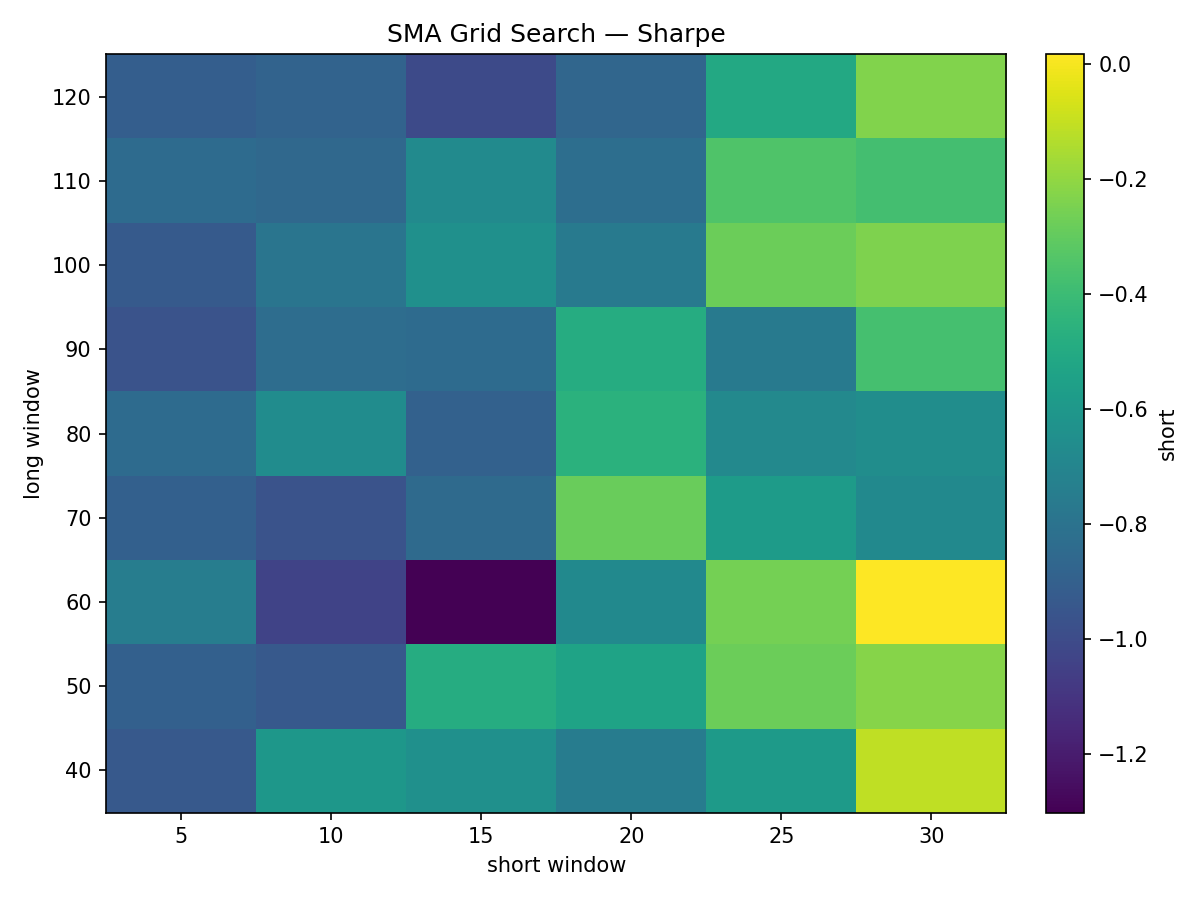
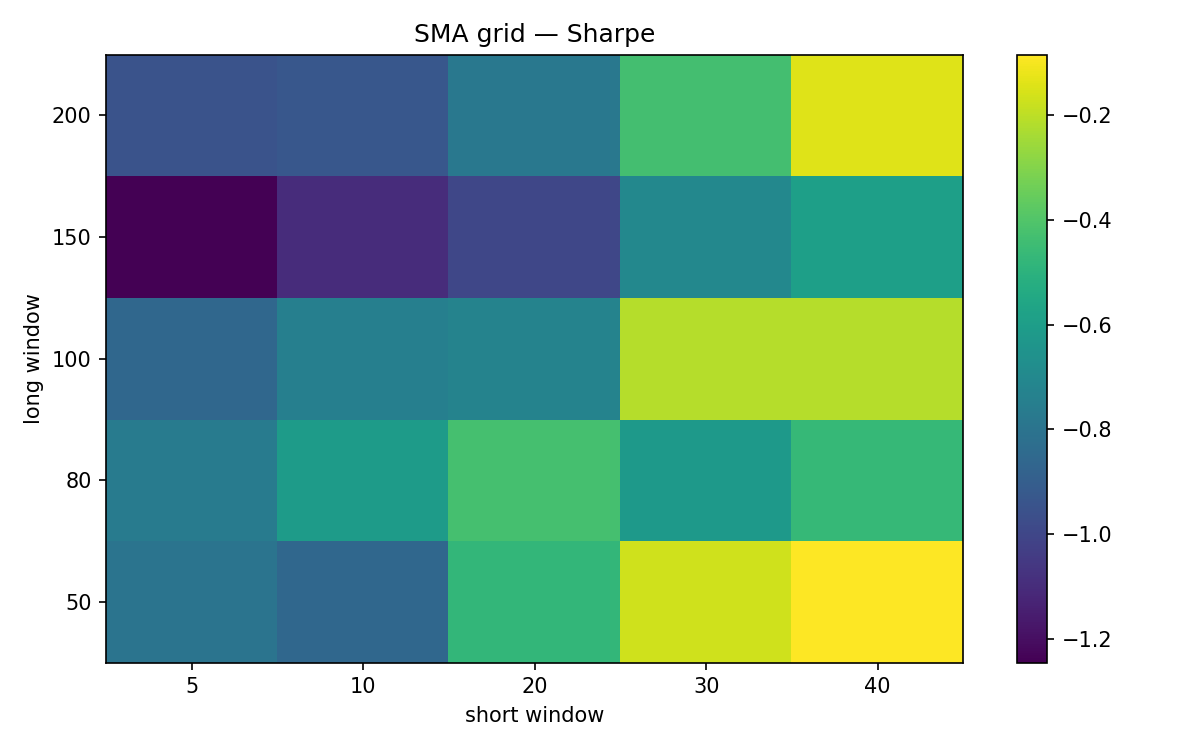
Harmonize backtest API to use cost_bps; fix run_backtest & tune_sma compatibility

diff --git a/scripts/run_backtest.py b/scripts/run_backtest.py
@@ -1,9 +1,11 @@
-import sys
+# scripts/run_backtest.py
+# Run a single SMA-crossover backtest and plot the results.
+
 import os
+import sys
 import matplotlib.pyplot as plt
 
-# === Make package imports work when running this file directly ===
-# (adds the repository root to sys.path)
+# Allow "backtesting" and "utils" imports when running this file directly
 sys.path.append(os.path.dirname(os.path.dirname(__file__)))
 
 from utils.data_loader import load_prices
@@ -11,89 +13,66 @@ from backtesting.ma_crossover import sma_crossover_positions
 from backtesting.engine import run_backtest
 
 
-# ---------- Plotting helpers ----------
 def plot_backtest(df, positions, result):
-    """
-    Two-panel plot:
-      1) Price with buy/sell markers from the SMA crossover signals
-      2) Equity curve with drawdown shading
-    """
+    """Two panels: price+signals and equity curve."""
     fig, (ax1, ax2) = plt.subplots(
         2, 1, figsize=(12, 8), sharex=True, gridspec_kw={"height_ratios": [2, 1]}
-    )
+        )
 
     # 1) Price + signals
     ax1.plot(df.index, df["price"], label="Price", color="black", lw=1.2)
-
-    # Buy when position goes from <= 0 to > 0; sell when it goes from >= 0 to < 0
-    buy_idx = positions[(positions.shift(1) <= 0) & (positions > 0)].index
-    sell_idx = positions[(positions.shift(1) >= 0) & (positions < 0)].index
-    ax1.scatter(buy_idx, df.loc[buy_idx, "price"], color="green", marker="^", s=80, label="Buy")
-    ax1.scatter(sell_idx, df.loc[sell_idx, "price"], color="red", marker="v", s=80, label="Sell")
-
-    ax1.set_title("SMA Crossover — Trading Signals", fontsize=13)
+    buys = positions[(positions.shift(1) <= 0) & (positions > 0)].index
+    sells = positions[(positions.shift(1) >= 0) & (positions < 0)].index
+    ax1.scatter(buys,  df.loc[buys,  "price"], color="green", marker="^", s=70, label="Buy")
+    ax1.scatter(sells, df.loc[sells, "price"], color="red",   marker="v", s=70, label="Sell")
+    ax1.set_title("SMA crossover — trading signals")
     ax1.set_ylabel("Price")
-    ax1.legend()
     ax1.grid(alpha=0.3)
+    ax1.legend()
 
-    # 2) Equity curve + drawdown (shade vs running max)
-    equity = result.equity
-    ax2.plot(equity.index, equity, color="tab:blue", lw=1.5, label="Equity Curve")
-    ax2.fill_between(equity.index, equity, equity.cummax(), color="tab:red", alpha=0.12, label="Drawdown")
-    ax2.set_title("Equity Curve", fontsize=13)
-    ax2.set_ylabel("Equity")
-    ax2.legend()
+    # 2) Equity curve (+ drawdown shadow)
+    eq = result.equity
+    ax2.plot(eq.index, eq, lw=1.6, label="Equity")
+    ax2.fill_between(eq.index, eq, eq.cummax(), color="red", alpha=0.12, label="Drawdown")
+    ax2.set_title("Equity curve")
+    ax2.set_ylabel("Capital")
     ax2.grid(alpha=0.3)
+    ax2.legend()
 
     plt.tight_layout()
-
-    # Save figure next to /data
-    save_path = os.path.join(os.path.dirname(os.path.dirname(__file__)), "data", "backtest_plot.png")
-    try:
-        plt.savefig(save_path, dpi=150)
-        print(f"\n📊 Plot saved to: {save_path}\n")
-    except Exception as e:
-        print(f"[WARN] Could not save plot: {e}")
-
+    out_png = os.path.join(os.path.dirname(os.path.dirname(__file__)), "data", "backtest_plot.png")
+    os.makedirs(os.path.dirname(out_png), exist_ok=True)
+    plt.savefig(out_png, dpi=150)
+    print(f"\n[OK] Plot saved to: {out_png}\n")
     plt.show()
 
 
-# ---------- Main script ----------
 def main():
-    # Load prices (utils/data_loader.py will fallback to synthetic if file not found)
-    df = load_prices()  # dataframe with a 'price' column and a datetime-like index
+    # Load prices (utils/data_loader.py will synthesize data if file is missing)
+    df = load_prices()  # DataFrame with 'price' column
 
-    # Build SMA crossover positions (+1 / 0 / -1)
-    positions = sma_crossover_positions(
-        df["price"],
-        short=20,
-        long=100,
-    )
+    # Build SMA crossover positions (+1 / 0 / -1), shifted by 1 bar inside the function
+    positions = sma_crossover_positions(df["price"], short=20, long=100)
 
-    # Run backtest (IMPORTANT: use total_bps to match engine.py)
+    # >>> IMPORTANT: engine.run_backtest uses 'cost_bps' <<<
     result = run_backtest(
-        df,
+        df["price"],
         positions,
-        total_bps=1.0,       # transaction cost in basis points per turnover
-        # initial_capital=1.0 # uncomment if your engine supports/needs it
+        cost_bps=1.0,         # 1 basis point per unit of |Δposition|
+        # initial_capital=1.0  # uncomment if you want to change starting capital
     )
 
-    # Print metrics
-    print("\n===== Backtest Results =====")
+    print("\n===== Backtest results =====")
     for k, v in result.metrics.items():
-        try:
-            print(f"{k:25s}: {v:.4f}")
-        except Exception:
-            print(f"{k:25s}: {v}")
+        print(f"{k:25s}: {v:.4f}")
 
-    # Final equity (also visible in result.equity.iloc[-1])
-    print("\n📈 Final equity:", round(result.equity.iloc[-1], 4))
+    print("\nFinal equity:", round(result.equity.iloc[-1], 4))
 
     # Plot
     plot_backtest(df, positions, result)
 
 
-# Entry point
 if __name__ == "__main__":
     main()
+
 

diff --git a/utils/param_search.py b/utils/param_search.py
@@ -1,10 +1,11 @@
 # utils/param_search.py
-# Grid evaluation + robust selection of the best hyperparameters.
+# Grid-search utilities for SMA crossover parameters.
 
 from __future__ import annotations
-import itertools
+
 import numpy as np
 import pandas as pd
+from typing import Iterable, Tuple
 
 from backtesting.engine import run_backtest
 from backtesting.ma_crossover import sma_crossover_positions
@@ -12,72 +13,52 @@ from backtesting.ma_crossover import sma_crossover_positions
 
 def evaluate_sma_grid(
     df: pd.DataFrame,
-    shorts: list[int],
-    longs: list[int],
-    total_bps: float = 10.0,
+    shorts: Iterable[int],
+    longs: Iterable[int],
+    cost_bps: float = 1.0,
+    criterion: str = "sharpe",         # "sharpe" | "cumret"
     initial_capital: float = 1.0,
-    criterion: str = "sharpe",  # 'sharpe' | 'cumret' | 'maxdd' (only used for the heatmap pivot)
-) -> tuple[pd.DataFrame, pd.DataFrame]:
+) -> Tuple[pd.DataFrame, pd.DataFrame]:
     """
-    Evaluate all (short, long) SMA combinations with long > short.
+    Brute-force grid over (short, long) SMA windows.
 
     Returns
     -------
-    results_df : pd.DataFrame
-        One row per (short, long) with key metrics.
-    pivot : pd.DataFrame
-        Pivot table for heatmap visualization on the selected `criterion`.
+    results_df : long-form table with metrics for each (short, long)
+    pivot      : matrix (rows=long, cols=short) of the selected criterion
     """
+    if "price" not in df.columns:
+        raise ValueError("DataFrame must contain 'price'.")
+
+    price = df["price"].astype(float)
+
     rows = []
-    price = df["price"]
+    for s in shorts:
+        for l in longs:
+            if s >= l:
+                continue
 
-    for s, l in itertools.product(shorts, longs):
-        if l <= s:
-            continue
-        pos = sma_crossover_positions(price, s, l)
-        res = run_backtest(df, pos, total_bps=total_bps, initial_capital=initial_capital)
+            pos = sma_crossover_positions(price, short=s, long=l)
+            res = run_backtest(price, pos, cost_bps=cost_bps, initial_capital=initial_capital)
 
-        rows.append({
-            "short": s,
-            "long": l,
-            "cumret": res.metrics["cumret"],
-            "sharpe": res.metrics["sharpe"],
-            "ann_vol": res.metrics["ann_vol"],
-            "maxdd": res.metrics["maxdd"],
-            "total_costs": res.metrics["total_costs"],
-        })
+            rows.append(
+                {
+                    "short": s,
+                    "long": l,
+                    "sharpe": res.metrics.get("Sharpe Ratio", np.nan),
+                    "cumret": res.metrics.get("Cumulative Return", np.nan),
+                    "max_dd": res.metrics.get("Max Drawdown", np.nan),
+                    "total_costs": res.metrics.get("Total Costs", np.nan),
+                }
+            )
 
-    results_df = pd.DataFrame(rows).sort_values(["long", "short"]).reset_index(drop=True)
+    results_df = pd.DataFrame(rows)
+    if results_df.empty:
+        return results_df, pd.DataFrame()
 
-    # Choose the value column for the heatmap
-    value_col = {"sharpe": "sharpe", "cumret": "cumret", "maxdd": "maxdd"}.get(criterion, "sharpe")
-    pivot = results_df.pivot(index="long", columns="short", values=value_col)
+    # pivot for quick inspection / heatmap
+    if criterion not in {"sharpe", "cumret"}:
+        criterion = "sharpe"
+    pivot = results_df.pivot_table(index="long", columns="short", values=criterion, aggfunc="mean")
 
     return results_df, pivot
-
-
-def pick_best_params(results_df: pd.DataFrame, by: str = "sharpe") -> pd.Series:
-    """
-    Selects the best parameter combination from a backtest results DataFrame.
-
-    - 'sharpe' and 'cumret' → maximize
-    - 'maxdd' → minimize (most negative is worst)
-
-    NaN and ±inf are ignored; raises a helpful error if all values are invalid.
-    """
-    if by not in {"sharpe", "cumret", "maxdd"}:
-        raise ValueError("`by` must be one of {'sharpe', 'cumret', 'maxdd'}")
-
-    if by not in results_df.columns:
-        raise KeyError(f"Column '{by}' not found in results_df.")
-
-    s = results_df[by].replace([np.inf, -np.inf], np.nan).dropna()
-    if s.empty:
-        raise ValueError(
-            f"No valid values for criterion '{by}'. "
-            "This can happen if volatility ≈ 0 (Sharpe NaN/inf) or returns are empty. "
-            "Try 'cumret', generate longer data, or widen your (short,long) grid."
-        )
-
-    idx = s.idxmax() if by in {"sharpe", "cumret"} else s.idxmin()
-    return results_df.loc[idx]

diff --git a/scripts/tune_sma.py b/scripts/tune_sma.py
@@ -1,92 +1,64 @@
 # scripts/tune_sma.py
-# SMA (short,long) grid search with CSV export and heatmap visualization.
+# Run a grid-search over SMA windows, save CSV, print best params, and (optionally) plot a heatmap.
 
 import os
 import sys
 import matplotlib.pyplot as plt
-import numpy as np
-import pandas as pd
 
-# Make the project importable when using VS Code "Run" button
+# Make local packages importable when running this file directly
 sys.path.append(os.path.dirname(os.path.dirname(__file__)))
 
 from utils.data_loader import load_prices
-from utils.param_search import evaluate_sma_grid, pick_best_params
+from utils.param_search import evaluate_sma_grid
 
 
 RESULTS_DIR = os.path.join(os.path.dirname(os.path.dirname(__file__)), "data")
 
 
-def plot_heatmap(pivot: pd.DataFrame, title: str, cmap: str = "viridis"):
-    """
-    Pure-matplotlib heatmap (no seaborn dependency).
-    X-axis: short window; Y-axis: long window.
-    """
-    plt.figure(figsize=(8, 6))
-    data = pivot.values.astype(float)
-    im = plt.imshow(data, aspect="auto", origin="lower", cmap=cmap)
-
-    # Axis ticks with actual window values
-    plt.xticks(range(len(pivot.columns)), pivot.columns.tolist())
-    plt.yticks(range(len(pivot.index)), pivot.index.tolist())
-
-    cbar = plt.colorbar(im, fraction=0.046, pad=0.04)
-    cbar.set_label(pivot.columns.name or "value")
-
-    plt.xlabel("short window")
-    plt.ylabel("long window")
-    plt.title(title)
-    plt.tight_layout()
-
-    # Save figure
-    os.makedirs(RESULTS_DIR, exist_ok=True)
-    fig_path = os.path.join(RESULTS_DIR, "sma_grid_heatmap.png")
-    plt.savefig(fig_path, dpi=150)
-    print(f"[OK] Heatmap saved to: {fig_path}")
-
-    plt.show()
-
-
 def main():
-    # 1) Load prices
-    df = load_prices()  # expects df['price']
+    df = load_prices()
 
-    # 2) Define parameter grid
-    shorts = list(range(5, 31, 5))     # 5,10,15,20,25,30
-    longs  = list(range(40, 121, 10))  # 40,50,...,120
+    shorts = [5, 10, 20, 30, 40]
+    longs  = [50, 80, 100, 150, 200]
 
-    # 3) Evaluate all combinations and create a pivot for heatmap
-    total_bps = 10.0  # total trading costs (bps) per absolute position change
     results_df, pivot = evaluate_sma_grid(
-        df, shorts, longs,
-        total_bps=total_bps,
-        initial_capital=1.0,
+        df,
+        shorts,
+        longs,
+        cost_bps=1.0,            # <- use 'cost_bps' (not total_bps / trans_cost_bps)
         criterion="sharpe",
+        initial_capital=1.0,
     )
 
-    # 4) Save raw results
     os.makedirs(RESULTS_DIR, exist_ok=True)
     out_csv = os.path.join(RESULTS_DIR, "sma_grid_results.csv")
     results_df.to_csv(out_csv, index=False)
     print(f"[OK] Results saved to: {out_csv}")
 
-    # 5) Pick best params (robust to NaN/±inf)
-    try:
-        best = pick_best_params(results_df, by="sharpe")
-        by_used = "sharpe"
-    except ValueError as e:
-        print(f"[WARN] {e}")
-        print("[INFO] Falling back to 'cumret' criterion.")
-        best = pick_best_params(results_df, by="cumret")
-        by_used = "cumret"
+    if not pivot.empty:
+        print("\n=== Best params (by Sharpe) ===")
+        best_long, best_short = pivot.stack().idxmax()  # (long, short)
+        best_val = pivot.max().max()
+        print(f"short={best_short}, long={best_long}, sharpe={best_val:.4f}")
 
-    print(f"\n=== Best params (by {by_used}) ===")
-    print(best)
-
-    # 6) Plot heatmap
-    pivot.columns.name = "short"
-    pivot.index.name = "long"
-    plot_heatmap(pivot, title=f"SMA Grid Search — {by_used.capitalize()}")
+        # Simple heatmap
+        fig, ax = plt.subplots(figsize=(8, 5))
+        im = ax.imshow(pivot.values, aspect="auto", origin="lower")
+        ax.set_xticks(range(len(pivot.columns)))
+        ax.set_xticklabels(pivot.columns)
+        ax.set_yticks(range(len(pivot.index)))
+        ax.set_yticklabels(pivot.index)
+        ax.set_xlabel("short window")
+        ax.set_ylabel("long window")
+        ax.set_title("SMA grid — Sharpe")
+        plt.colorbar(im, ax=ax)
+        out_png = os.path.join(RESULTS_DIR, "sma_grid_heatmap.png")
+        plt.tight_layout()
+        plt.savefig(out_png, dpi=150)
+        print(f"[OK] Heatmap saved to: {out_png}")
+        plt.show()
+    else:
+        print("[WARN] Empty pivot — check grids or data length.")
 
 
 if __name__ == "__main__":
